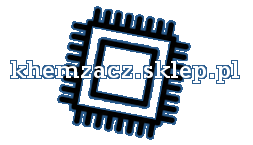
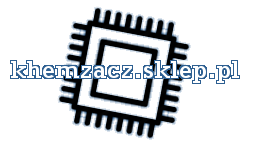
uploading a picture, addec back buttons in admin panel

Changed region(s): [[0.2213, 0.0276, 0.7747, 0.9655]]

diff --git a/web/css/my.css b/web/css/my.css
@@ -8,10 +8,7 @@
 .not-a-real-shop{
     position: relative;
     font-size: 14pt;
-    margin-up: 5pt;
-    margin-down: 5 pt;
-    margin-right: 5pt;
-    margin-left: 20%;
+    margin: 2%;
 }
 
 
